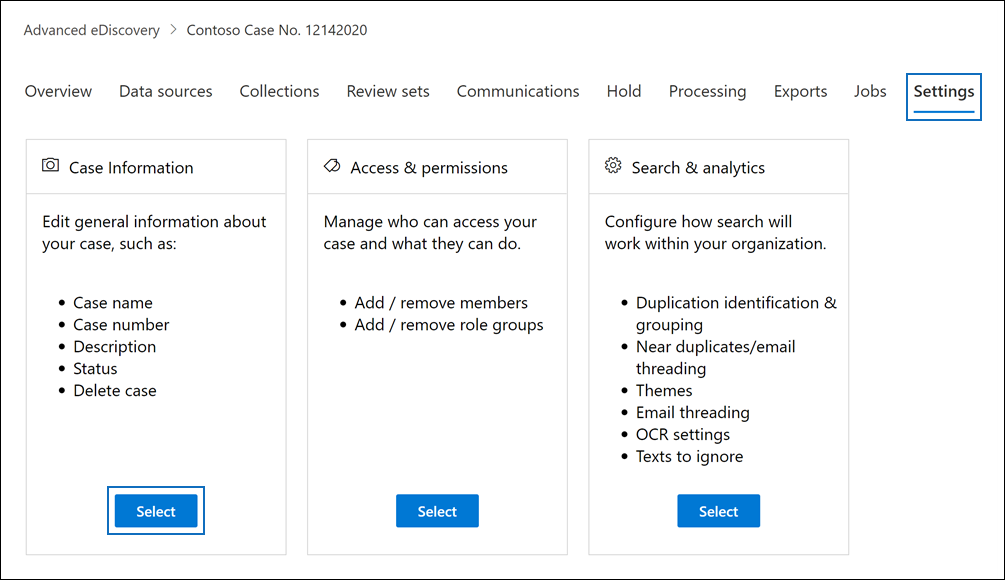
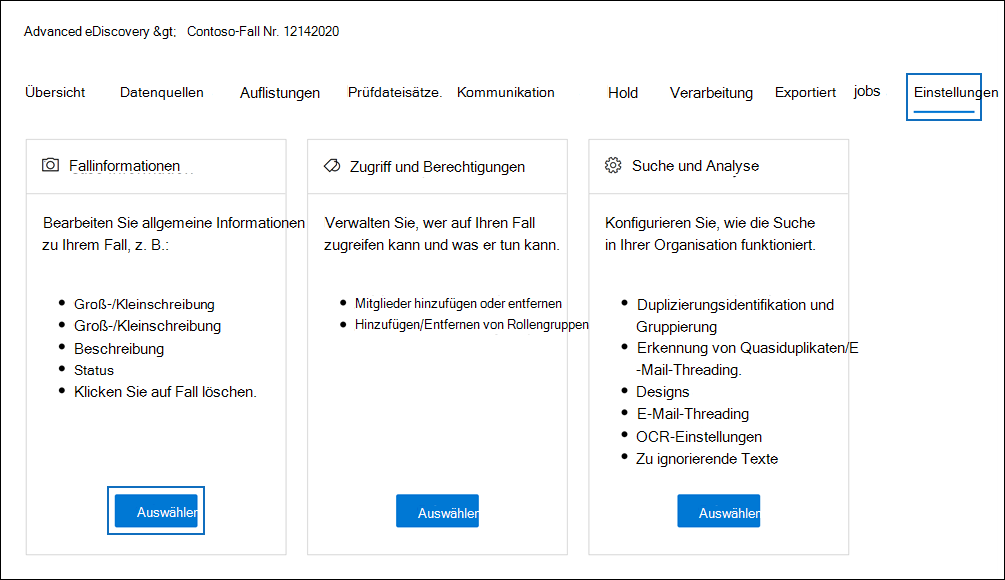
commit translated contents

diff --git a/microsoft-365/compliance/apply-sensitivity-label-automatically.md b/microsoft-365/compliance/apply-sensitivity-label-automatically.md
@@ -16,12 +16,12 @@ search.appverid:
 - MOE150
 - MET150
 description: Wenn Sie eine Vertraulichkeitsbezeichnung erstellen, können Sie eine Bezeichnung automatisch Dateien und E-Mails zuweisen oder die Benutzer dazu auffordern, die von Ihnen empfohlene Bezeichnung auszuwählen.
-ms.openlocfilehash: 5fdb3bd963468fb7fdb4de307df8ccda0c69bbb4
-ms.sourcegitcommit: 5866e45a6a4e90c661e8f90c91550a9872b68e03
+ms.openlocfilehash: 6b74c36707b9fe1fdbe00eb7058554b54ec95755
+ms.sourcegitcommit: 6749455c52b0f98a92f6fffbc2bb86caf3538bd8
 ms.translationtype: HT
 ms.contentlocale: de-DE
-ms.lasthandoff: 06/28/2021
-ms.locfileid: "53169616"
+ms.lasthandoff: 06/29/2021
+ms.locfileid: "53194769"
 ---
 # <a name="apply-a-sensitivity-label-to-content-automatically"></a>Automatisches Anwenden einer Vertraulichkeitsbezeichnung auf Inhalte
 
@@ -142,7 +142,7 @@ Weitere Informationen zu diesen Konfigurationsoptionen finden Sie in der DLP-Dok
 Darüber hinaus können Sie, ähnlich wie bei der Konfiguration der DLP-Richtlinien, auswählen, ob eine Bedingung alle vertraulichen Informationstypen oder nur einen dieser Typen erkennen muss. Und um Ihre Bedingungen flexibler oder komplexer zu gestalten, können Sie [Gruppen hinzufügen und logische Operatoren zwischen den Gruppen verwenden](data-loss-prevention-policies.md#grouping-and-logical-operators).
 
 > [!NOTE]
-> Richtlinien für die automatische Bezeichnung, die auf benutzerdefinierten vertraulichen Informationstypen basieren, gelten nur für neu erstellte oder geänderte Inhalte in OneDrive and SharePoint. 
+> Richtlinien für die automatische Bezeichnung, die auf benutzerdefinierten vertraulichen Informationstypen basieren, gelten nur für neu erstellte oder geänderte Inhalte in OneDrive und SharePoint, nicht für bereits vorhandene Inhalte. 
 
 ### <a name="configuring-trainable-classifiers-for-a-label"></a>Konfigurieren von trainierbaren Klassifizierungen für eine Bezeichnung
 
@@ -219,7 +219,7 @@ Vergewissern Sie sich, dass Sie die Voraussetzungen kennen, bevor Sie automatisc
     - Zum Zeitpunkt der Ausführung der Richtlinie zum automatischen Bezeichnen darf die Datei nicht von einem anderen Prozess oder Benutzer geöffnet sein. Eine Datei, die zur Bearbeitung ausgecheckt ist, fällt in diese Kategorie.
 
 - Wenn Sie vorhaben, anstelle der integrierten Vertraulichkeitstypen [benutzerdefinierte sensible Informationstypen](sensitive-information-type-learn-about.md) zu verwenden: 
-    - Benutzerdefinierte Vertraulichkeitsinformationstypen gelten nur für Inhalte, die in SharePoint oder OneDrive hinzugefügt oder geändert werden, nachdem die benutzerdefinierten Vertraulichkeitsinformationstypen in Kraft gesetzt sind. 
+    - Benutzerdefinierte Vertraulichkeitsinformationstypen gelten nur für Inhalte, die in SharePoint oder OneDrive hinzugefügt oder geändert werden, nachdem die benutzerdefinierten Vertraulichkeitsinformationstypen in Kraft gesetzt sind.
     - Um neue benutzerdefinierte Typen sensibler Informationen zu testen, erstellen Sie diese, bevor Sie Ihre Richtlinie zum automatischen Bezeichnen erstellen, und erstellen Sie dann neue Dokumente mit Beispieldaten zum Testen.
 
 - Eine oder mehrere Vertraulichkeitsbezeichnungen wurden [erstellt und veröffentlicht](create-sensitivity-labels.md) (für mindestens einen Benutzer), den Sie für Ihre Richtlinie zum automatischen Bezeichnen auswählen können. Für diese Bezeichnungen:
